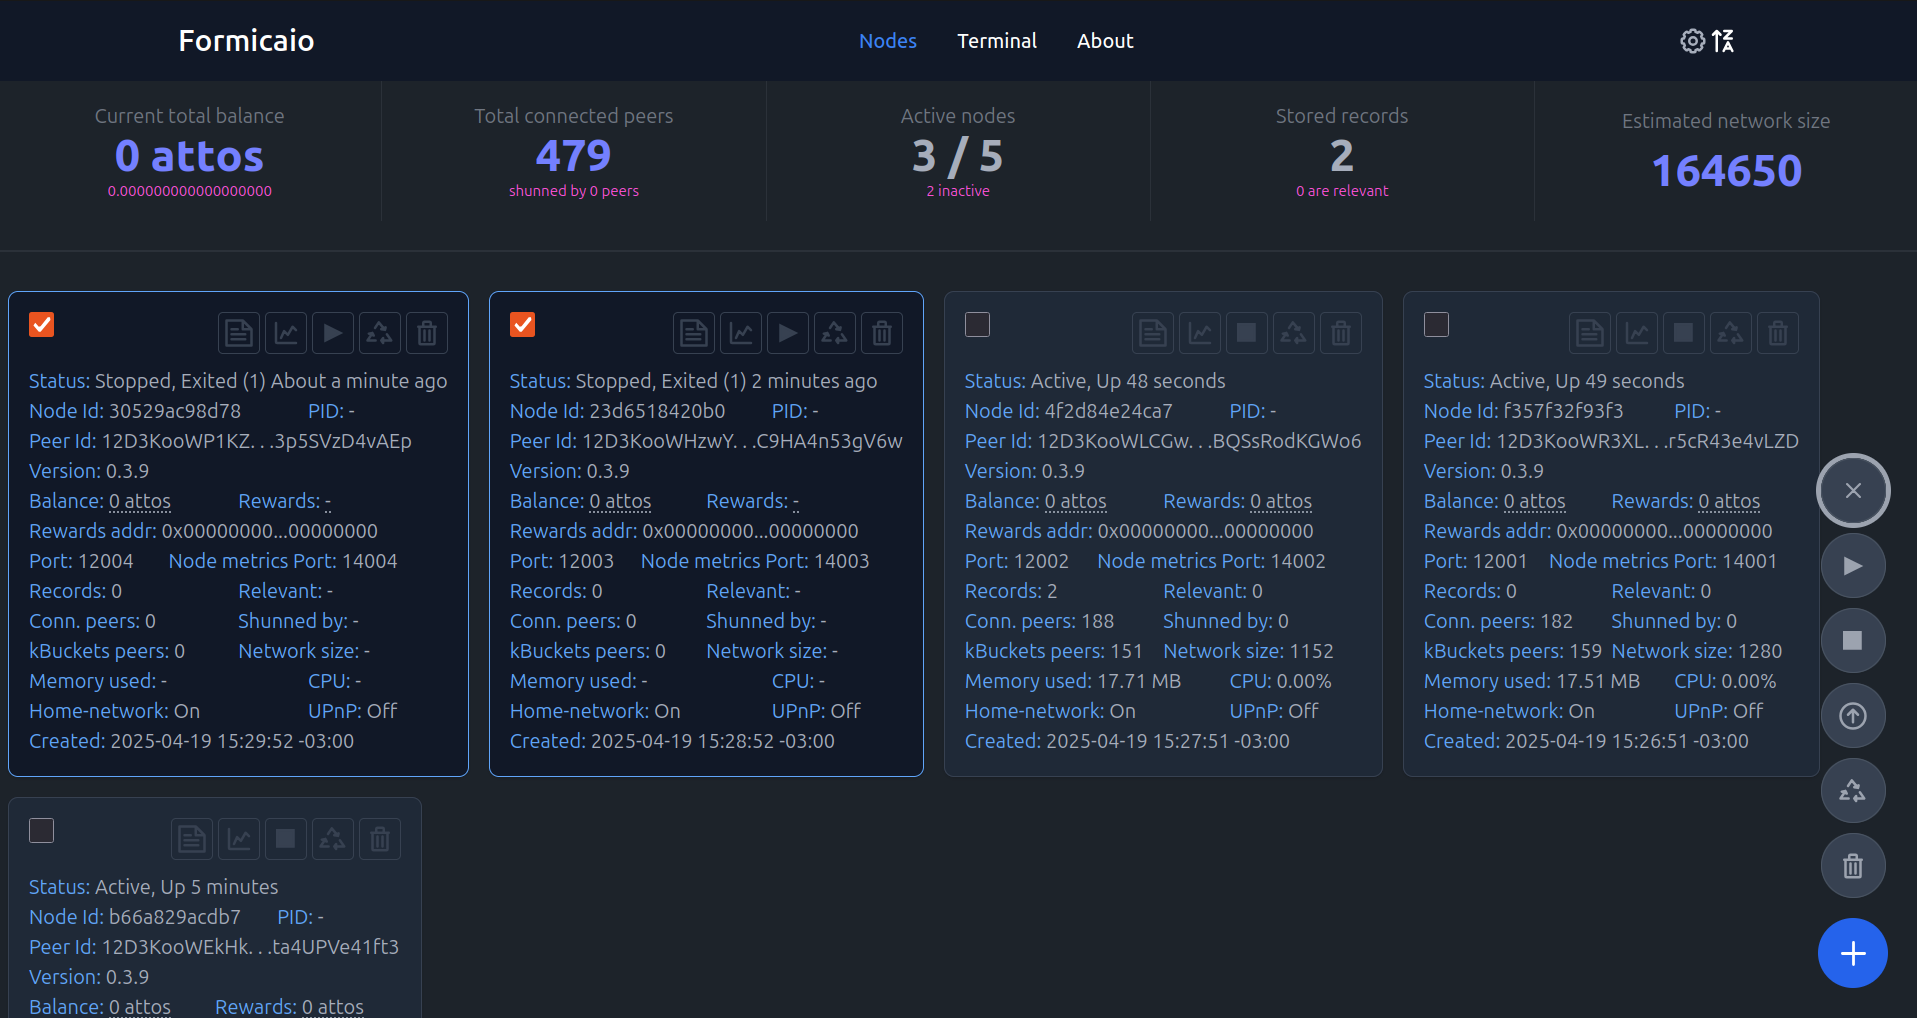
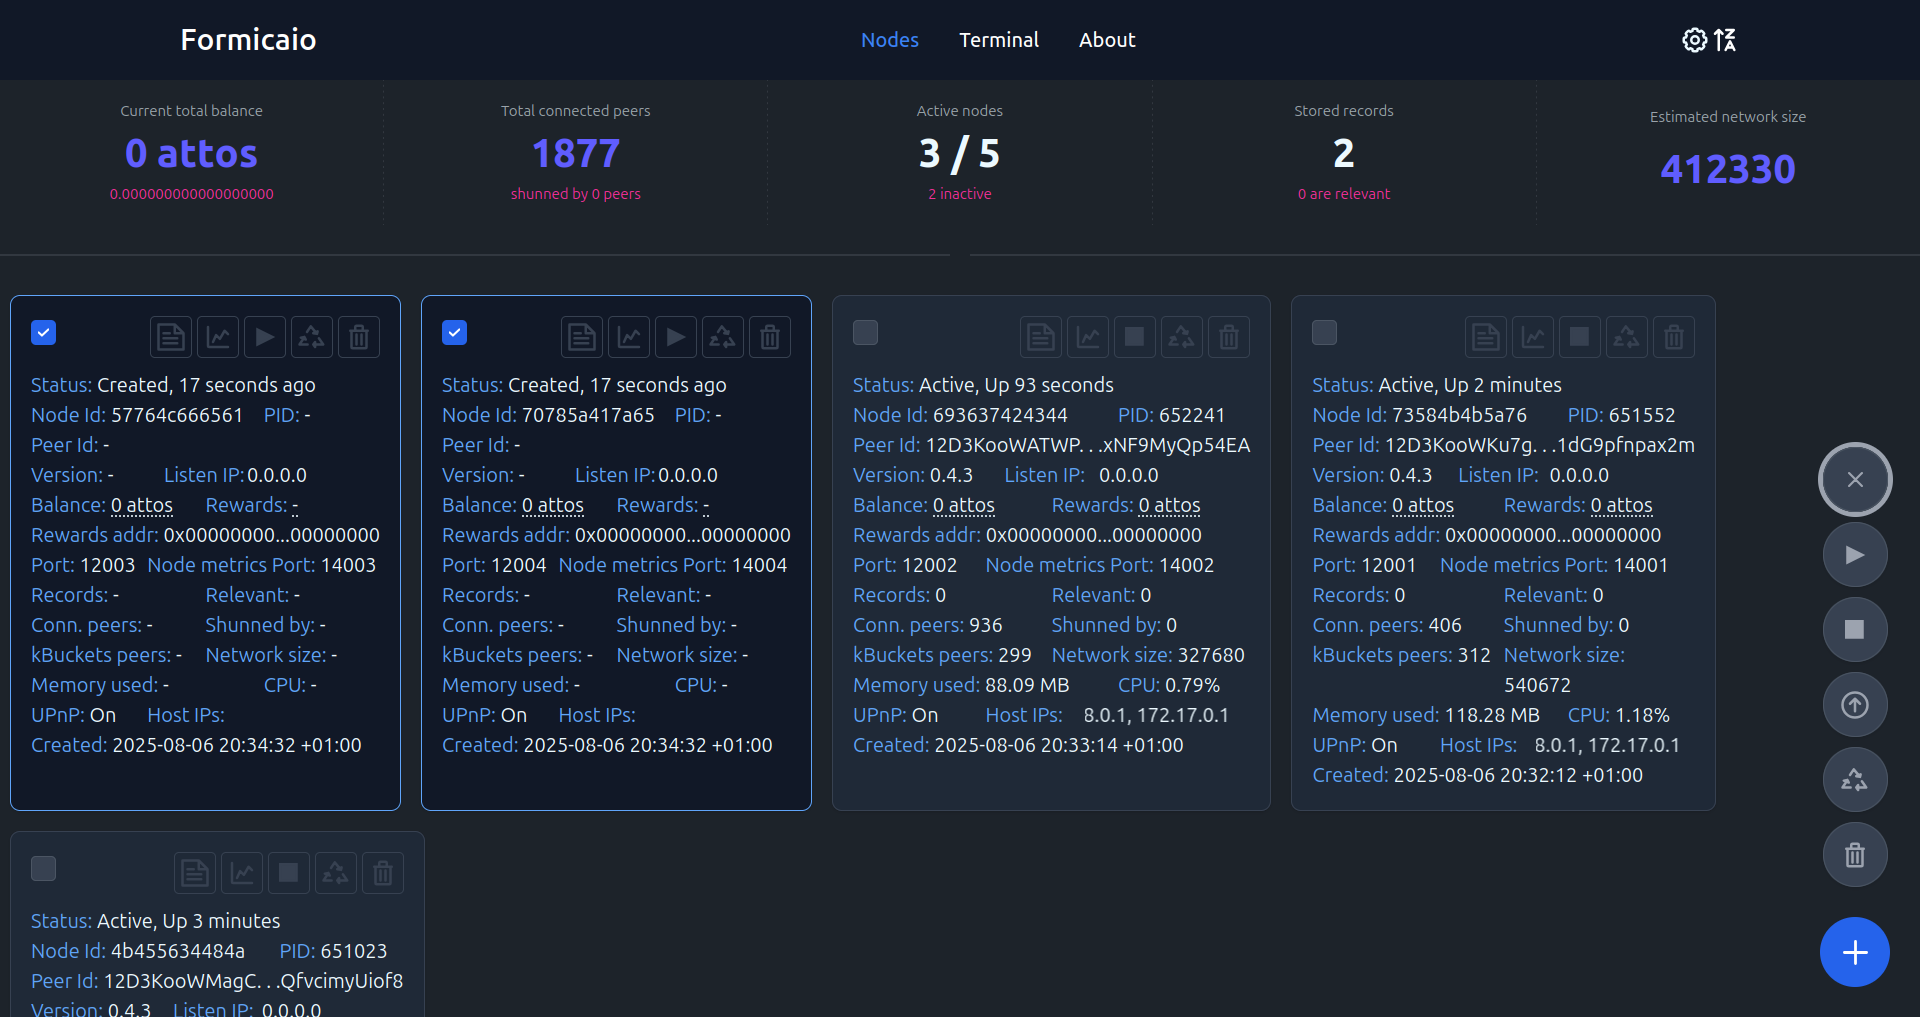
docs: update some screenshots and README

diff --git a/README.md b/README.md
@@ -82,11 +82,14 @@ A comprehensive settings panel allows you to customize monitoring tasks and node
 
 ### 🌐 Network Connectivity Options
 
-When setting up nodes, you can define their connection type:
+When setting up nodes, you can define their connection type and custom data directory:
 
 - **UPnP support**: Attempts to use UPnP to open a port on your home router for incoming connections. If your router doesn't support UPnP, create nodes with UPnP disabled to ensure connectivity.
+- **Listening IP address**: This address determines which network interface the node will bind to for incoming connections. The application supports both IPv4 (e.g., `0.0.0.0`, `127.0.0.1`) and IPv6 (e.g., `::`, `fe80::1`) addresses, allowing users to control whether the node is accessible on all interfaces, only locally, or on a specific network. This flexibility is useful for running nodes in different environments, such as local development, private networks, or public-facing deployments.
+- **Custom data directory**: This directory is where the node will store its persistent data, such as chunks, logs, and configuration files. By assigning a unique data directory to each node, or batch of nodes, users can run multiple nodes on the same machine without data conflicts. This option is especially valuable for advanced setups or when running nodes with different hard disks or mounting points.
 
-<img src="img/screenshot_02.png" width="300" height="367" />
+<img src="img/screenshot_02.png" width="300" height="373" />
+<img src="img/screenshot_02_b.png" width="300" height="248" />
 
 ## Installation & Deployment
 
